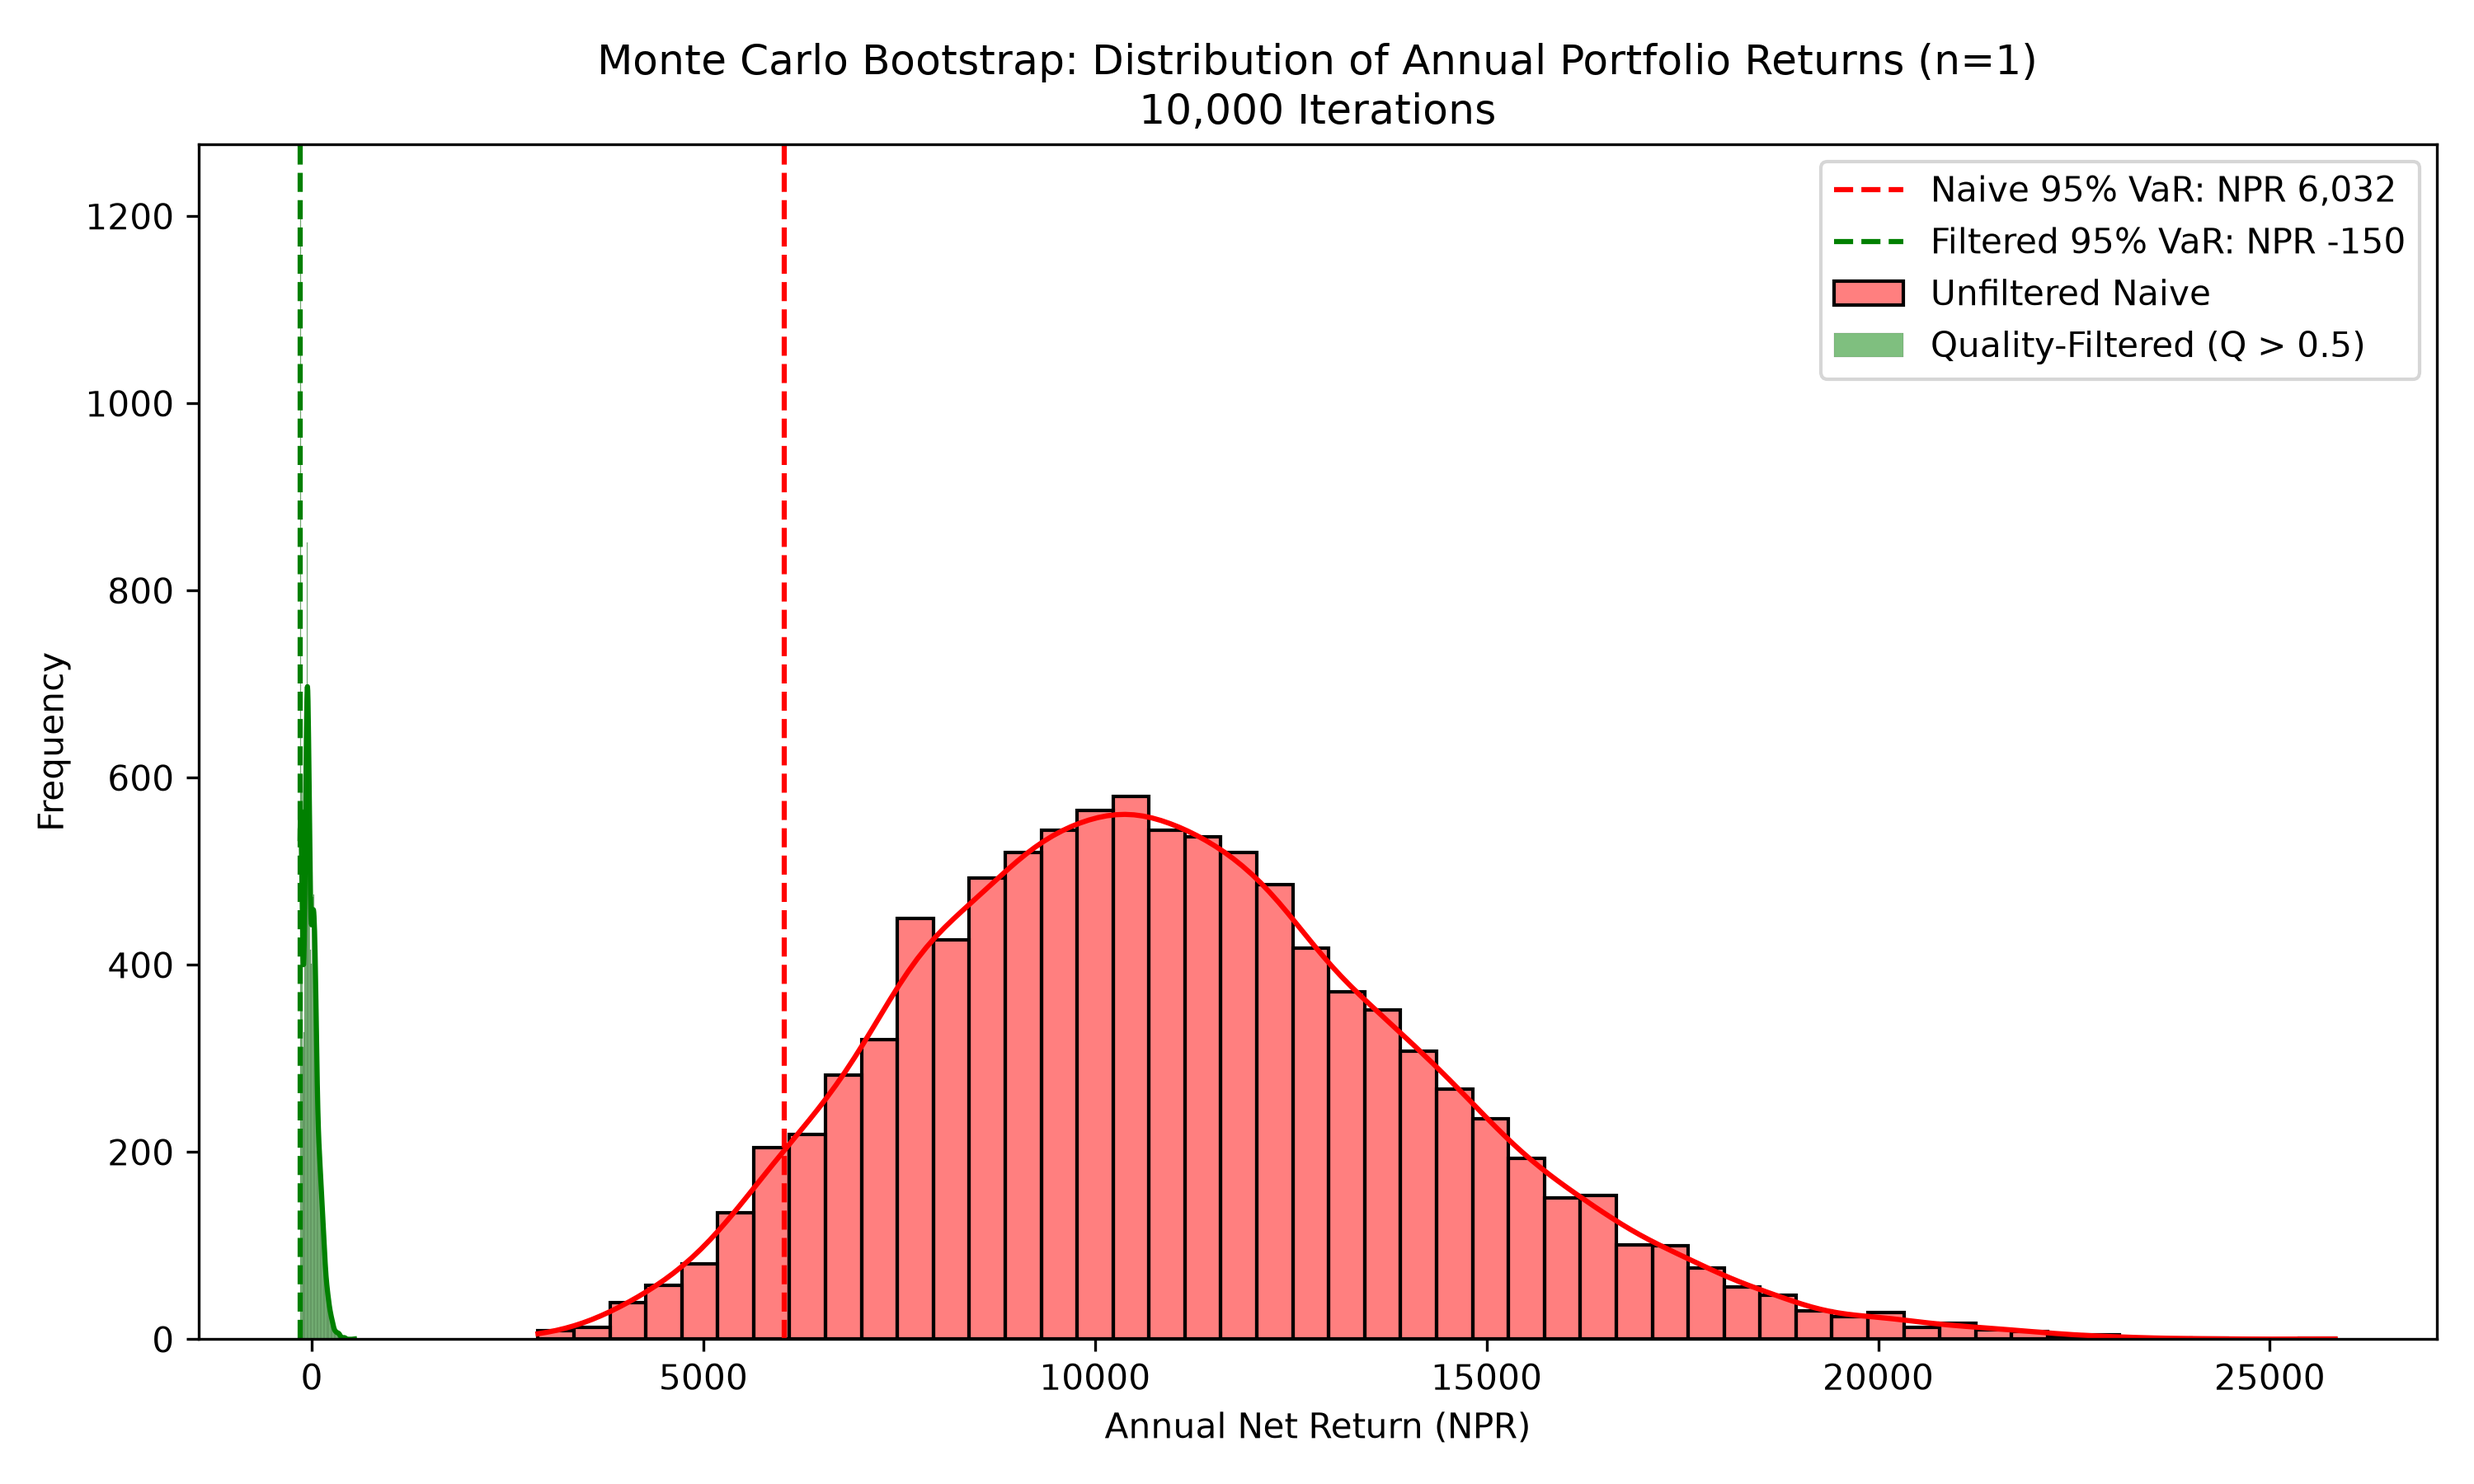
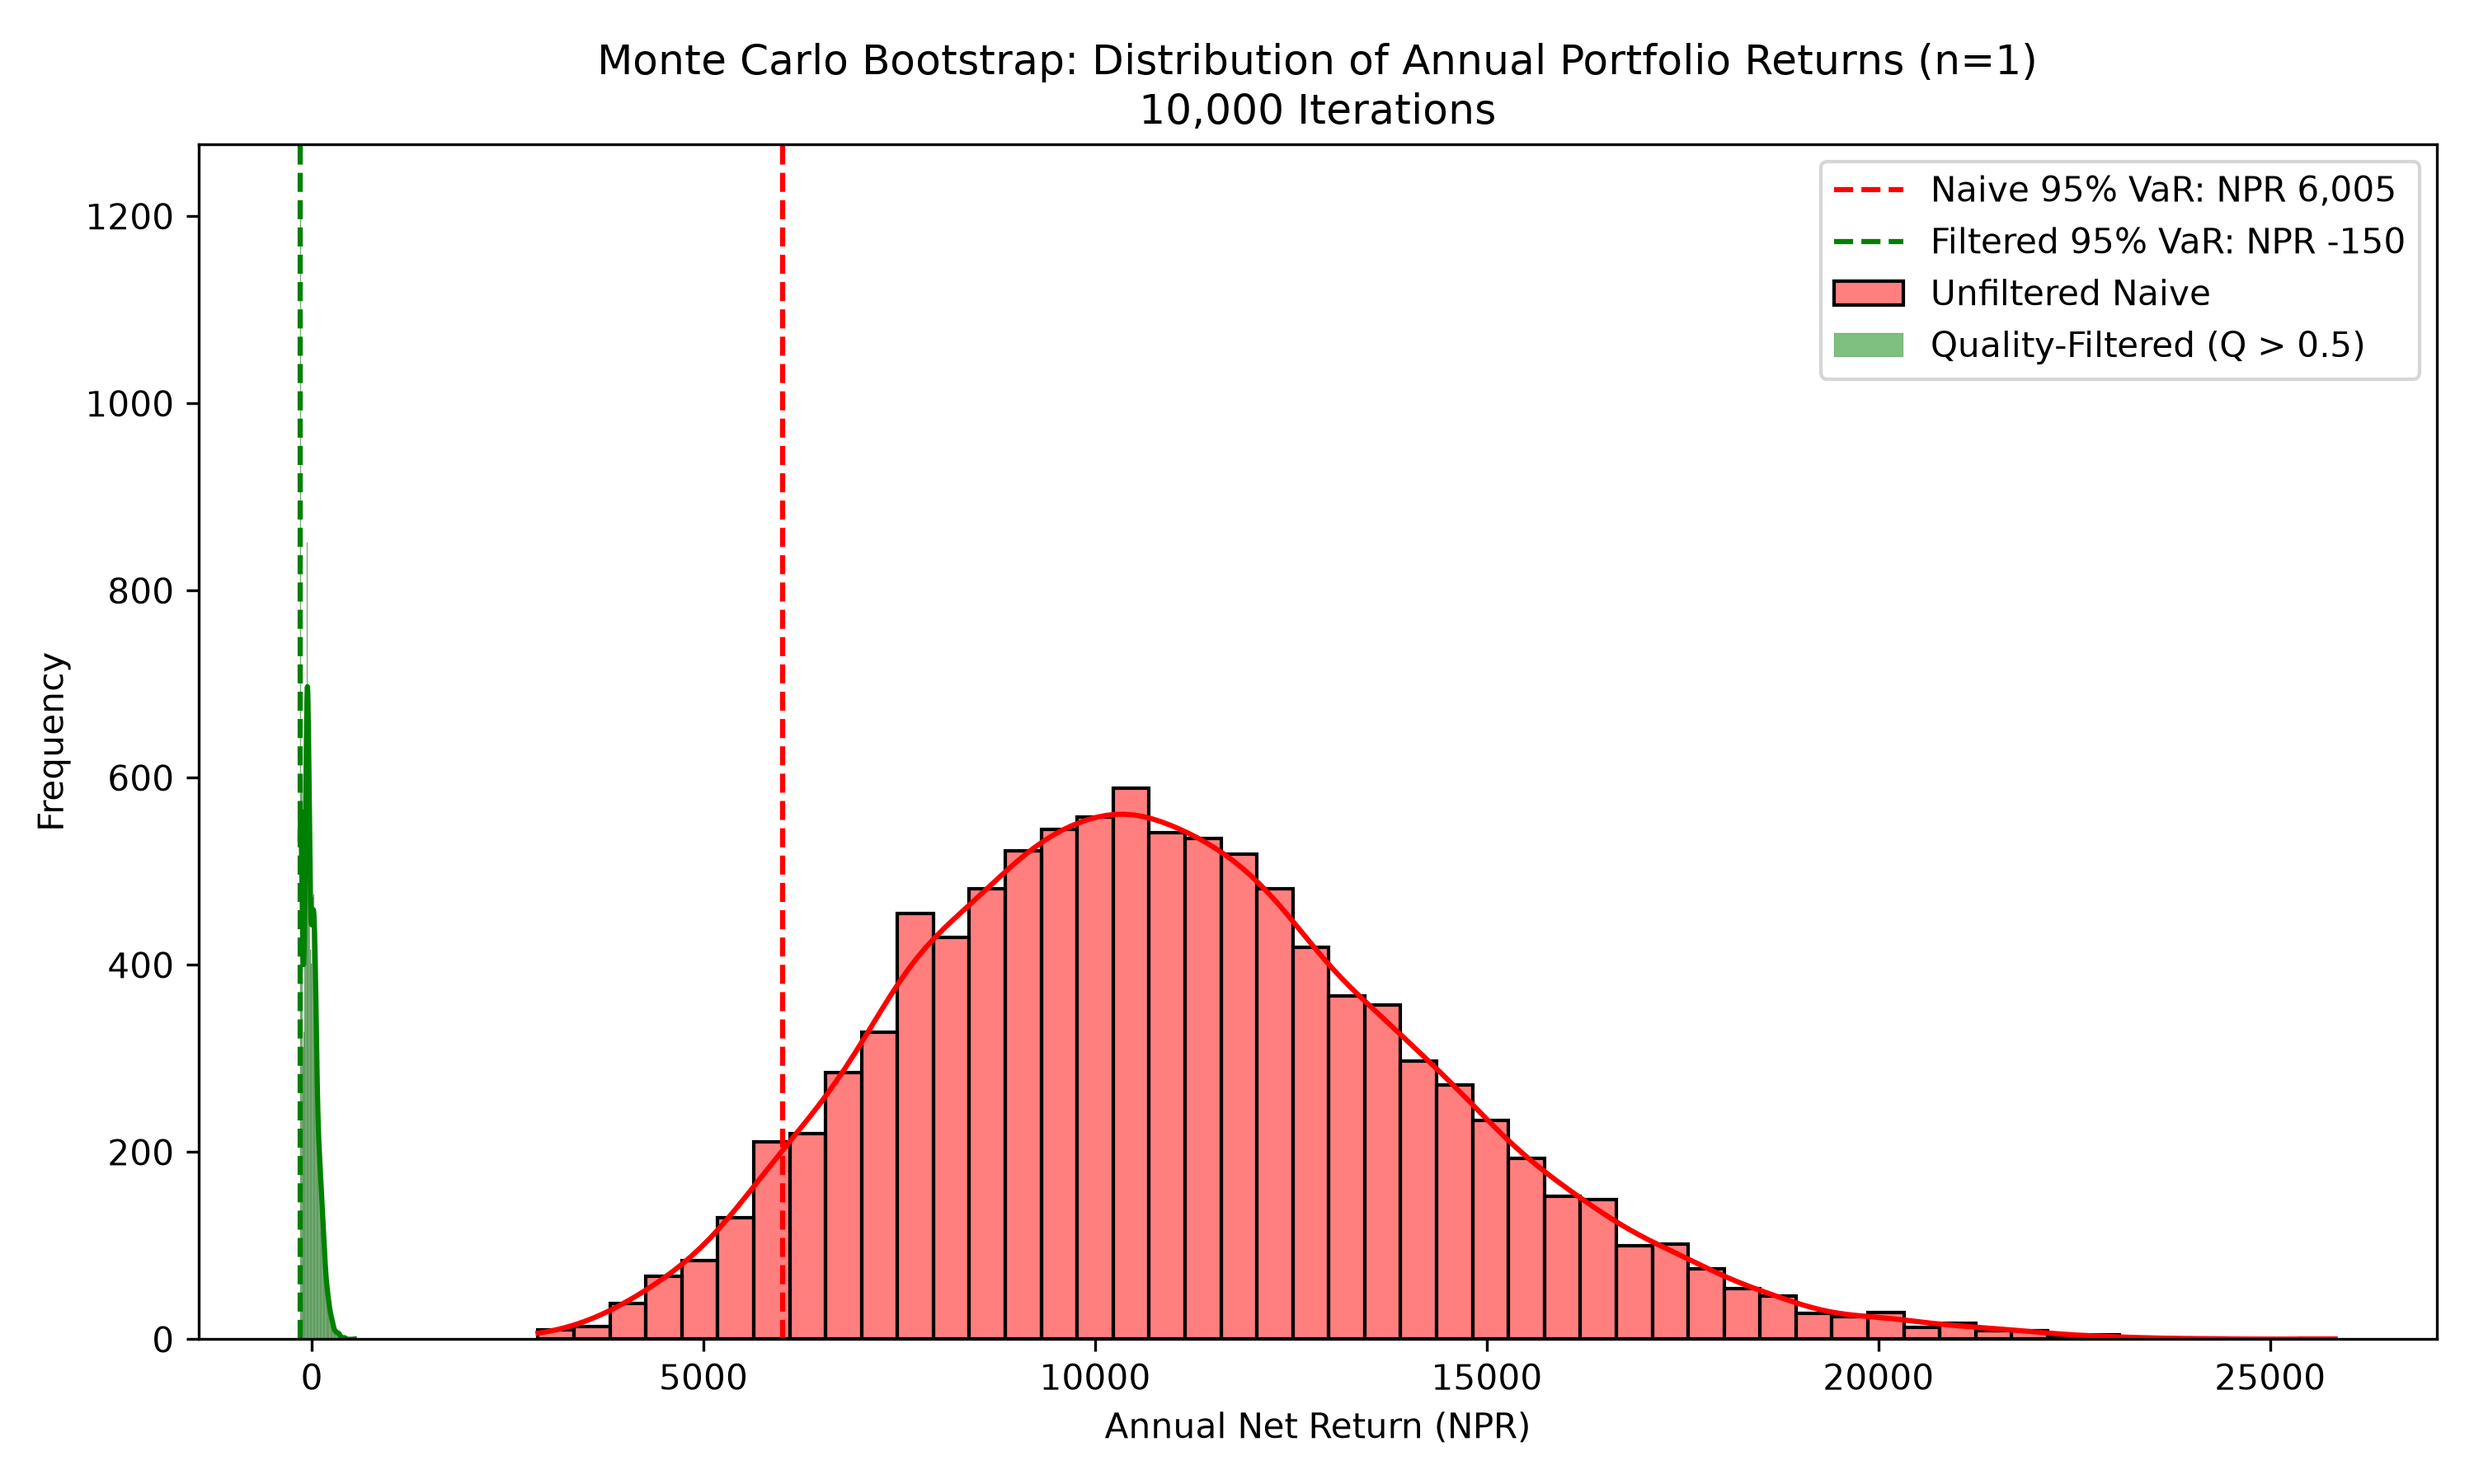
new plot generated

diff --git a/sim.py b/sim.py
@@ -52,7 +52,7 @@ class MonteCarloEngine:
         noise_R = np.random.normal(0, self.sigma_R, size=(self.N_sim, self.M))
         
         sim_A = np.maximum(1, base_A + noise_A) # Demand cannot be negative
-        sim_R = np.maximum(0, base_R + noise_R) # Returns bounded at 0 for worst case
+        sim_R = np.maximum(-1.0, base_R + noise_R) # Returns bounded at -100% for worst case
         
         # 1. NAIVE STRATEGY (Participate in all M IPOs)
         # Compute dynamic probability given simulated demand
